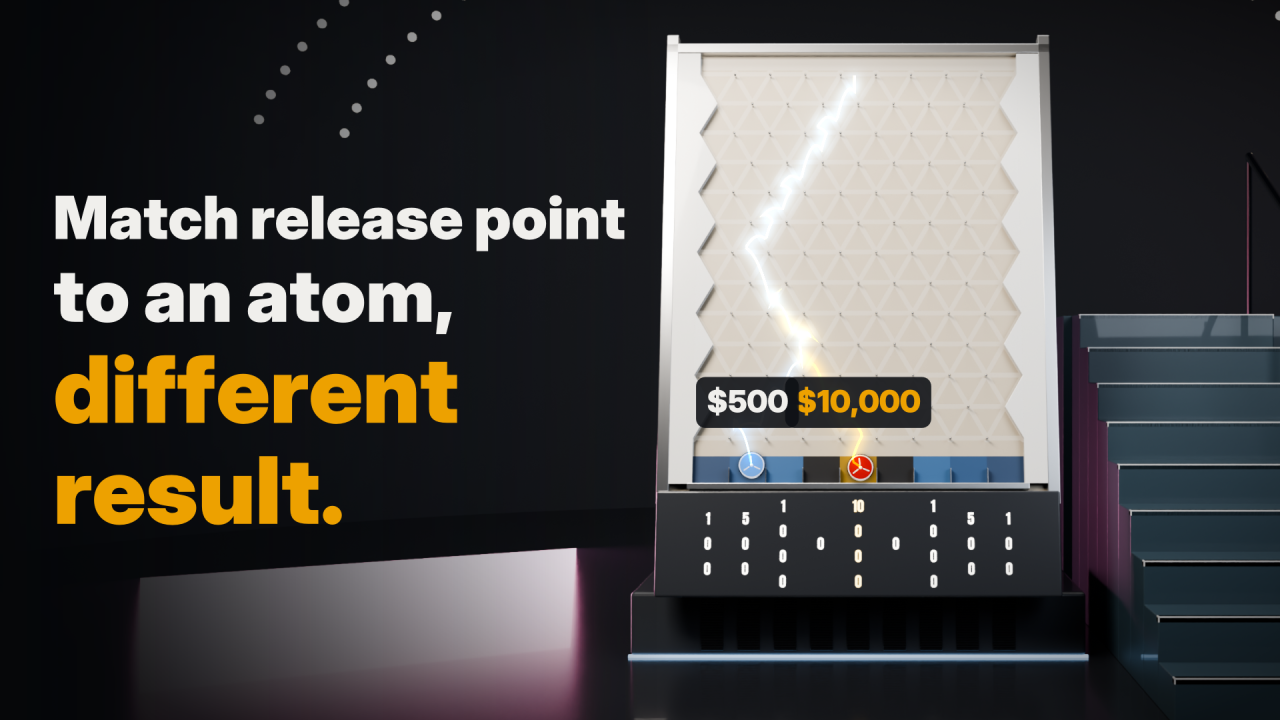
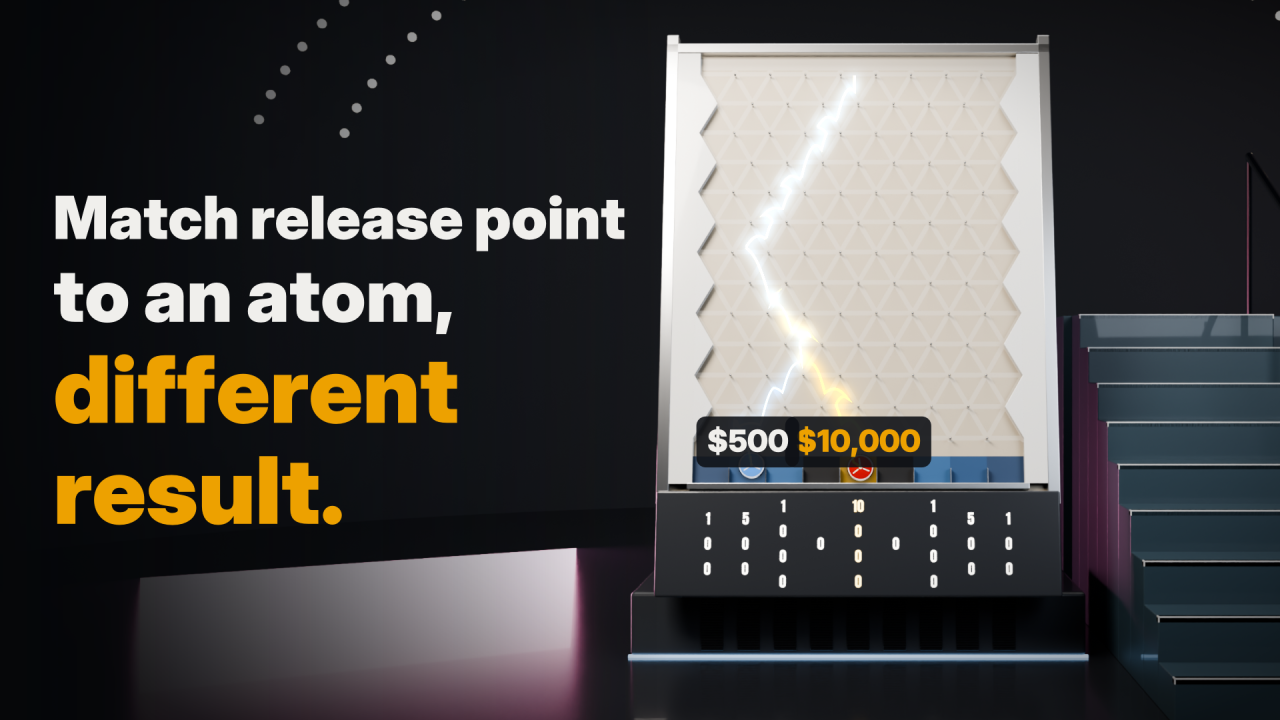
Thumbnails C2/C3: side-by-side prize labels and a ring where the paths part
Neighbouring-slot labels now sit side by side, pushed apart, instead of
stacked. C3 uses a pair from the same warm-board experiment that also lands
in $0 but parts halfway down and swings up to 54 cm apart (chaos2.py
thumbpair, results/chaos2_warm_thumb.npz), so the divergence is obvious.

Claude-Session: https://claude.ai/code/session_01S7EUMzPhLyDgSQHoFb2Ud4

Changed region(s): [[0.5312, 0.5194, 0.75, 0.6722]]

diff --git a/plinko/thumbs_chaos.py b/plinko/thumbs_chaos.py
@@ -7,7 +7,10 @@ Text  A  "Same release point. Different prize."
       C  "0.00006 °C warmer: $10,000 became $0."
 Picture 1  the hook's last frame: a $10,000 drop and its atom-close replay in $500 (prize pills shown, except
            with text C, which names $0)
-        2  the warm-board pair: the same release point, the board 0.00006 C warmer, $10,000 and $0
+        2  the warm-board pair: the same release point, the board 0.00006 C warmer, $10,000 and $0, with a ring
+           where the paths part
+           (picture 3 with text C uses another pair from the same experiment, results/chaos2_warm_thumb.npz, that
+           also lands in $0 but parts earlier and swings up to 54 cm apart, so the split is easy to see)
         3  a photo of a real Plinko board (the official home game) with the film's two paths drawn on its own pegs
            and our chips in the slots: "The Price Is Right Plinko Home Game" by TaurusEmerald, CC BY-SA 4.0
            (Wikimedia Commons; see
@@ -37,14 +40,44 @@ def shot_frame(name, t, overlay):
     return C3.add_glow(img, gsurf), cm, crop
 
 
-def labels(cm, crop, win, rep):
-    """Prize pills over the two landing slots, stacked when the slots are neighbours."""
+def pill_layer(to_px, win, rep, size, split_t=None):
+    """Prize pills for the two landing slots, and (when split_t is given) a ring where the two paths part. Pills for
+    neighbouring slots sit side by side, each pushed out away from the other, with a leader line to its chip."""
+    W_ = CC.W
+    kw, kr = int(round(win[-1, 1] / W_)), int(round(rep[-1, 1] / W_))
+    r_px = float(np.hypot(*(to_px(W_ + C3.B.CHIP_DIAMETER / 2, 1.0) - to_px(W_, 1.0))))
+
     def draw(ctx):
-        kw, kr = int(round(win[-1, 1] / CC.W)), int(round(rep[-1, 1] / CC.W))
-        adjacent = abs(kw - kr) == 1
-        CC.board_label(ctx, cm, crop, kw, "$10,000", True, 1.0, -150 if adjacent else -64, 46)
-        CC.board_label(ctx, cm, crop, kr, D.SLOT_LABELS[kr - 1], False, 1.0, -64, 46)
+        if split_t is not None:
+            q = to_px(*rep[int(round(split_t * 60)), 1:3])
+            for rad, wd, al in ((r_px * 1.9, 9, 0.25), (r_px * 1.9, 3.5, 1.0)):
+                ctx.new_path()
+                ctx.arc(q[0], q[1], rad, 0, 2 * np.pi)
+                ctx.set_source_rgba(1, 1, 1, al)
+                ctx.set_line_width(wd)
+                ctx.stroke()
+        y_lab = C3.B.last_row_y() + 0.1 * W_
+        if abs(kw - kr) == 1:
+            d = 1 if kw > kr else -1
+            for k, rec, lab, gold, side in ((kw, win, "$10,000", True, d), (kr, rep, D.SLOT_LABELS[kr - 1], False, -d)):
+                chip = to_px(*rec[-1, 1:3])
+                q = to_px(k * W_ + side * 1.05 * W_, y_lab)
+                ctx.new_path()
+                ctx.move_to(q[0] - side * 10, q[1] + 8)
+                ctx.line_to(chip[0] + side * r_px * 0.7, chip[1] - r_px * 0.7)
+                ctx.set_source_rgba(1, 1, 1, 0.9)
+                ctx.set_line_width(2.5)
+                ctx.stroke()
+                D.pill(ctx, lab, q[0], q[1], size, D.GOLD if gold else D.INK)
+        else:
+            for k, lab, gold in ((kw, "$10,000", True), (kr, D.SLOT_LABELS[kr - 1], False)):
+                q = to_px(k * W_, y_lab)
+                D.pill(ctx, lab, q[0], q[1], size, D.GOLD if gold else D.INK)
     return draw
+
+
+def labels(cm, crop, win, rep, split_t=None):
+    return pill_layer(lambda x, y: np.array(cm.px(C3.board_world(x, y, 0.03), crop)), win, rep, 46, split_t)
 
 
 SRC = "../videos/plinko/thumbnails/sources/The_Price_Is_Right_Plinko_Home_Game_960px.jpg"
@@ -96,7 +129,7 @@ def board_to_photo(im):
     return H
 
 
-def photo_frame(win, rep, ox=60, oy=105):
+def photo_frame(win, rep, ox=60, oy=105, split_t=None):
     """The real photo (background and all), with the film's two paths drawn on its pegs: one release point, two
     glowing trails, the chips in their slots and a faint chip where both were let go."""
     OW, OH = CC.OW, CC.OH
@@ -141,12 +174,7 @@ def photo_frame(win, rep, ox=60, oy=105):
     paste("blue", rep[-1, 1:3], rep[-1, 3])
     paste("red", win[-1, 1:3], win[-1, 3])
 
-    def pills(ctx):
-        kw, kr = int(round(win[-1, 1] / CC.W)), int(round(rep[-1, 1] / CC.W))
-        adjacent = abs(kw - kr) == 1
-        for k, lab, gold, dy in ((kw, "$10,000", True, 96 if adjacent else 50), (kr, D.SLOT_LABELS[kr - 1], False, 50)):
-            q = proj([[k * CC.W, C3.B.last_row_y() + 0.2 * CC.W]])[0]
-            D.pill(ctx, lab, q[0], q[1] - dy, 40, D.GOLD if gold else D.INK)
+    pills = pill_layer(lambda x, y: proj([[x, y]])[0], win, rep, 40, split_t)
     return img, pills, x0
 
 
@@ -180,9 +208,10 @@ if __name__ == "__main__":
     img, cm, crop = shot_frame("hook", 16.0, CC.ov_hook)
     pics["1"] = (img, labels(cm, crop, CC.HP["hook_win"], CC.HP["hook_replay"]), 860)
     img, cm, crop = shot_frame("warm", 15.5, CC.ov_warm)
-    pics["2"] = (img, labels(cm, crop, CC.HP["warm_win"], CC.HP["warm_replay"]), 860)
+    pics["2"] = (img, labels(cm, crop, CC.HP["warm_win"], CC.HP["warm_replay"], CC.ONE["pair_split_t"]), 860)
+    wt = np.load("results/chaos2_warm_thumb.npz")                  # a pair that parts earlier and wider (chaos2.py)
     photo = {"hook": photo_frame(CC.HP["hook_win"], CC.HP["hook_replay"]),
-             "warm": photo_frame(CC.HP["warm_win"], CC.HP["warm_replay"])}
+             "warm": photo_frame(wt["win"], wt["replay"], split_t=float(wt["split_t"]))}
     for tk, lines in TEXTS.items():
         img, pills, x0 = photo["warm" if tk == "C" else "hook"]
         pics["3"] = (img, pills, x0 - 120)

diff --git a/plinko/chaos2.py b/plinko/chaos2.py
@@ -8,6 +8,7 @@
     python3 chaos2.py regionmap  # every release point across the top, up to 30 cm above the pins: the slot
     python3 chaos2.py region     # replay, thermal, robustness and warming for winners from anywhere on top
     python3 chaos2.py square     # a 3.84 cm square of release points above the middle gap, 0.1 mm apart
+    python3 chaos2.py thumbpair  # a warm-board pair that parts early and wide, for the thumbnail
     python3 chaos2.py all
 
 Everything runs on the perfect board (no pin imperfections, no random restitution) unless a "real-world"
@@ -514,6 +515,36 @@ def square_map(n=384):
     print("square: share gold", float((sl == 5).mean()), "bottom row", float((sl[-1] == 5).mean()))
 
 
+def warm_thumb_pair():
+    """For the thumbnail: among the onevar winners whose exact replay on the board warmed by one drop's heat lands in
+    $0, the pair that parts in the top 60% of the board and swings furthest apart sideways (a clearer picture of the
+    split than the film's pair, with the same result). results/chaos2_warm_thumb.npz"""
+    o = json.load(open("results/chaos2_onevar.json"))
+    rng = np.random.default_rng(2026)
+    cand = np.zeros((N_CAND1, 5))
+    cand[:, 0] = B.drop_x(5) + rng.uniform(-GAP, GAP, N_CAND1)
+    win = cand[run(cand) == 5]
+    eps = ALPHA * o["drop_dT_C"]
+    s_drop = run(win, np.full(len(win), eps))
+    best = None
+    for i in np.flatnonzero(np.isin(s_drop, (4, 6))):
+        _, ra = trajectory_scaled(win[i, 0], 0.0)
+        sb, rb = trajectory_scaled(win[i, 0], eps)
+        m = min(len(ra), len(rb))
+        sep = np.hypot(ra[:m, 1] - rb[:m, 1], ra[:m, 2] - rb[:m, 2])
+        k = int(np.argmax(sep > 0.01))
+        if ra[k, 2] / B.last_row_y() > 0.6:
+            continue
+        gap = float(np.abs(ra[:m, 1] - rb[:m, 1]).max())
+        if best is None or gap > best[0]:
+            best = (gap, i, ra, rb, sb, float(ra[k, 0]))
+    gap, i, ra, rb, sb, t_split = best
+    np.savez_compressed("results/chaos2_warm_thumb.npz", win=ra[:, :4], replay=rb[:, :4], split_t=t_split,
+                        release_m=win[i, 0] - B.drop_x(5), replay_slot=sb, max_gap_m=gap)
+    print(f"thumbnail pair: winner {i} released {100 * (win[i, 0] - B.drop_x(5)):+.2f} cm; replay in slot {sb}; "
+          f"parts {t_split:.2f} s in; up to {100 * gap:.0f} cm apart")
+
+
 if __name__ == "__main__":
     what = sys.argv[1:] or ["all"]
     if "growth" in what or "all" in what:
@@ -532,3 +563,5 @@ if __name__ == "__main__":
         region()
     if "square" in what or "all" in what:
         square_map()
+    if "thumbpair" in what or "all" in what:
+        warm_thumb_pair()

diff --git a/plinko/ACCURACY.md b/plinko/ACCURACY.md
@@ -251,6 +251,9 @@ restitution, the chip let go at rest with no spin. Only what is named changes.
   warming is also the gentlest way to spread it: the pins the chip actually hits warm far more, locally. The
   film's pair (release -0.93 cm from the gap centre) wins $10,000 on the cool board and
   lands in slot 6 ($0) on the warmed one, parting about 2.6 s into the drop.
+  Thumbnail C3 shows a different pair from the same 892 winners (`chaos2.py thumbpair`): of the 258 whose replay
+  on the warmed board lands in $0, the one that parts in the top 60% of the board and swings furthest apart
+  sideways (released -1.55 cm from the gap centre; parts 2.1 s in; up to 54 cm apart before landing in slot 4).
   The film's energy bar follows that drop sample by sample (60 a second): height energy left is
   m g (y_end - y) cos(lean), speed energy is (1/2) m v^2 + (1/2) I w^2 from the path's own motion, and heat is
   what has gone from the first and not into the second (held from falling back, which only smooths the

diff --git a/videos/copy/plinko_chaos_YOUTUBE.md b/videos/copy/plinko_chaos_YOUTUBE.md
@@ -20,7 +20,9 @@ three pictures, named `plinko_chaos_thumb_<text><picture>.png`. YouTube's thumbn
 
 The natural pairs are A1, B1 and C2, where the picture shows exactly what the text says. Column 3 shows the same
 story on a photo of a real board (the official home game): the drop and its replay for A3 and B3, the warm-board
-pair for C3, drawn on that board's own pegs. Suggested test: A3, A1 and C2.
+pair for C3, drawn on that board's own pegs. C2 and C3 mark where the two paths part with a ring; C3 uses another
+pair from the same experiment that also lands in $0 but parts earlier and swings up to 54 cm apart, so the split
+reads at thumbnail size. Suggested test: A3, A1 and C2.
 
 **If you use a thumbnail from column 3**, add this line to the end of the description (the photo's licence requires
 the credit, and those thumbnails, as adaptations of it, are themselves CC BY-SA 4.0):
